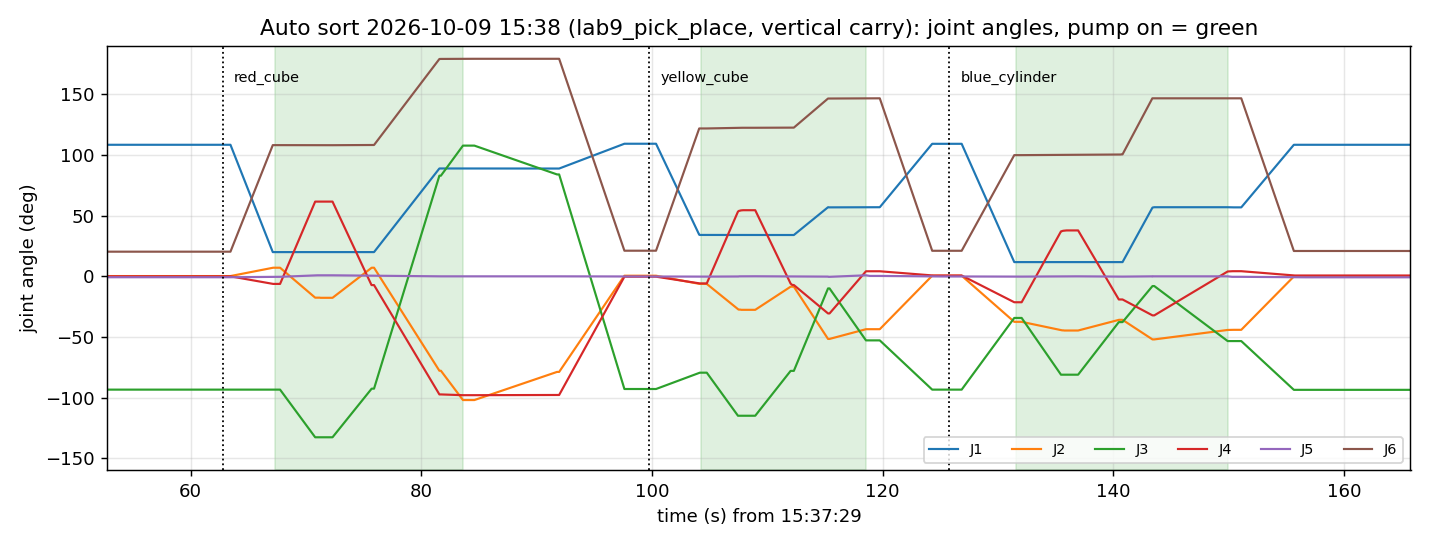
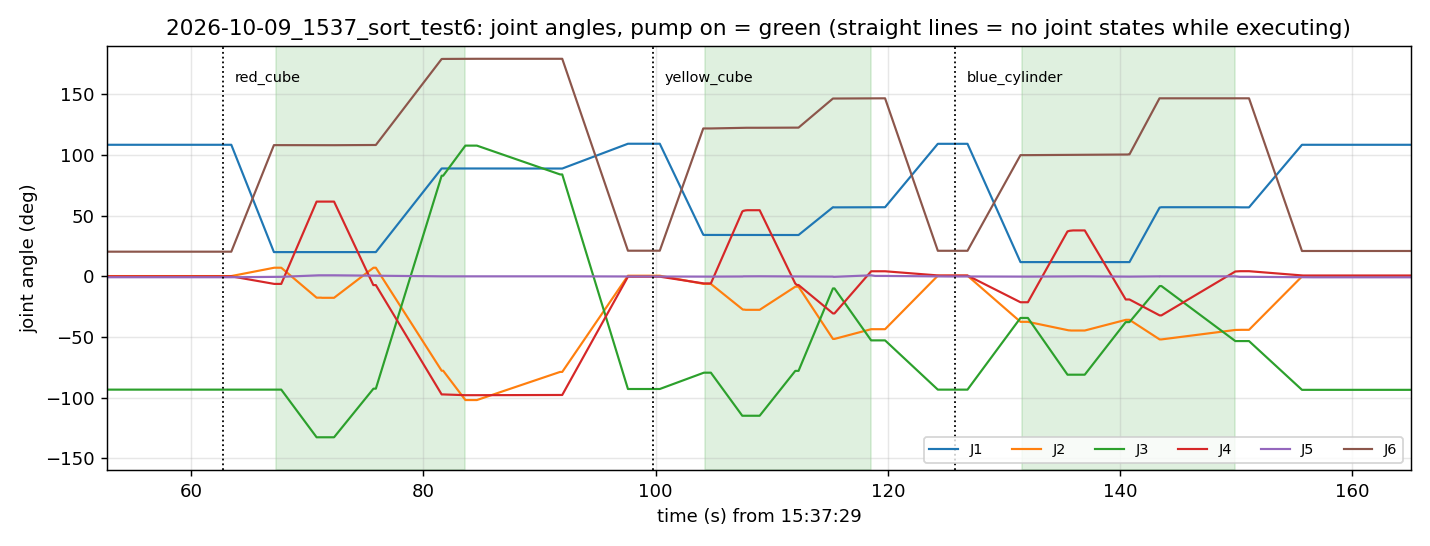
Lab 9 evidence tools: run analysis and camera snapshot recorder
- lab9_analyse_run.py: per pick target vs actual contact (Pi controller log),
  carry pose, outcome (vision), time; analysis.md, runs.csv rows, optional
  joint/pump plot from the bag and start/end image
- lab9_snapshots.py: passive camera snapshots every N s
- lab9/eval/README: both tools, raw data export note; sort_test6 outputs
  regenerated with the repo version

diff --git a/solutions/lab9_real_hardware/lab9_analyse_run.py b/solutions/lab9_real_hardware/lab9_analyse_run.py
@@ -1,0 +1,207 @@
+#!/usr/bin/env python3
+"""Lab 9: analyse one recorded run folder (lab9/eval/runs/<run>/, made by record_run.sh). Never moves the robot.
+
+Per pick, from the logs in the run folder:
+  brain log (logs/)      target, events, warnings, bin, time per pick
+  controller (logs_pi/)  actual flange position: first position after "pump on" = contact
+  vision log (logs/)     object of the same colour still within 25 mm of the target 4 s after the drop = not placed
+Writes <run>/analysis.md and appends one row per pick to lab9/eval/runs.csv (unless --no-csv).
+With --plot also <run>/joints_pump.png (joint angles from the bag, pump-on phases shaded) and <run>/start_end.jpg
+(camera snapshots before the first pick and after the last one).
+
+    source ~/rosenv9.sh     # --plot reads the bag with rosbag2_py
+    python3 solutions/lab9_real_hardware/lab9_analyse_run.py lab9/eval/runs/2026-10-09_1537_sort_test6 \
+        --start 15:37:10 --end 15:40:35 --plot
+Times are local (HH:MM:SS) on the day of the run folder. "placed" means "left the plate", not "landed in the bin":
+check that by eye (start_end.jpg) and note it in runs.csv.
+"""
+import argparse, csv, datetime, glob, math, os, re
+
+import yaml
+
+REPO = os.path.normpath(os.path.join(os.path.dirname(os.path.abspath(__file__)), "..", ".."))
+CONFIG = os.path.join(REPO, "pp_moveit_ws", "src", "lab9_pick_place", "config", "lab9.yaml")
+LINE = re.compile(r"\[(\w+)\] \[(\d{10}\.\d+)\] \[([^\]]+)\]: (.*)")
+COORD = re.compile(r"Current coordinates: \[([-\d.]+), ([-\d.]+), ([-\d.]+)")
+OBJ = re.compile(r"([a-z]+)_(cube|cylinder|unknown)_\d+ \((-?\d+), (-?\d+)\)")
+MOVE = re.compile(r"move to \[([-\d.]+), ([-\d.]+), ([-\d.]+), [-\d.]+, ([-\d.]+), ([-\d.]+)\]")
+hm = lambda t: datetime.datetime.fromtimestamp(t).strftime("%H:%M:%S")
+
+
+def epoch(day, hhmmss):
+    return datetime.datetime.strptime(f"{day} {hhmmss}", "%Y-%m-%d %H:%M:%S").timestamp()
+
+
+def events(run, node, folders, t0, t1):
+    out = set()
+    for f in sum((glob.glob(os.path.join(run, d, "*.log")) for d in folders), []):
+        for line in open(f, errors="replace"):
+            m = LINE.search(line)
+            if m and m.group(3) == node and t0 <= float(m.group(2)) <= t1:
+                out.add((float(m.group(2)), m.group(1), m.group(4).strip()))
+    return sorted(out)
+
+
+def analyse(run, t0, t1, hover_m):
+    brain = events(run, "mycobot_brain_lab9", ["logs"], t0, t1)
+    ctrl = events(run, "controller", ["logs_pi"], t0, t1)
+    vis = events(run, "vision_lab9", ["logs"], t0, t1)
+
+    def objects_at(t):
+        last = None
+        for tt, _, msg in vis:
+            if tt <= t and msg.startswith("objects:"):
+                last = msg
+        return [(c, s, int(x), int(y)) for c, s, x, y in OBJ.findall(last or "")]
+
+    picks, cur = [], None
+    for t, lvl, msg in brain:
+        if msg.startswith("planning scene:"):
+            cur = {"t_start": t, "moves": [], "warn": []}
+        elif cur is None:
+            continue
+        elif msg.startswith("move to ["):
+            m = MOVE.search(msg)
+            if m:
+                cur["moves"].append((t, *map(float, m.groups())))
+        elif "pump on" in msg:
+            cur["t_pump_on"] = t
+        elif msg.endswith(" picked"):
+            cur["id"], cur["t_picked"] = msg.split()[0], t
+        elif "dropped into bin" in msg:
+            cur["bin"], cur["t_drop"] = msg.split()[-1], t
+            picks.append(cur); cur = None
+        elif "sequence stopped" in msg:
+            cur["stopped"], cur["t_drop"] = msg, t
+            picks.append(cur); cur = None
+        elif lvl in ("WARN", "ERROR"):
+            cur["warn"].append(msg)
+
+    rows = []
+    for p in picks:
+        tp, td = p.get("t_pump_on", p["t_start"]), p["t_drop"]
+        coords = [tuple(map(float, COORD.search(m).groups())) for t, _, m in ctrl if tp <= t <= td + 1.5 and COORD.search(m)]
+        before = [mv for mv in p["moves"] if mv[0] <= tp]
+        hover = before[-1] if before else None
+        carry = [mv for mv in p["moves"] if mv[0] > p.get("t_picked", td)]
+        tx, ty = (hover[1], hover[2]) if hover else (float("nan"),) * 2
+        oid = p.get("id", "?_?")
+        color, shape = (oid.split("_") + ["?"])[:2]
+        after = objects_at(td + 4.0)
+        still = [o for o in after if o[0] == color and math.hypot(o[2] - tx * 1000, o[3] - ty * 1000) < 25]
+        rows.append(dict(
+            id=oid, color=color, shape=shape, t_start=hm(p["t_start"]), dur=td - p["t_start"],
+            tx=tx * 1000, ty=ty * 1000,
+            contact=f"({coords[0][0]:.1f}, {coords[0][1]:.1f}, {coords[0][2]:.1f})" if coords else "-",
+            contact_z=coords[0][2] if coords else float("nan"),
+            dxy=math.hypot(coords[0][0] - tx * 1000, coords[0][1] - ty * 1000) if coords else float("nan"),
+            planned_z=(hover[3] - hover_m + 0.040) * 1000 if hover else float("nan"),   # pump_head + 40 mm = flange
+            carry=(f"z {carry[-1][3]:.3f}, pitch {carry[-1][4]:.2f}"
+                   + (" (TILTED)" if abs(carry[-1][4] - math.pi) > 0.05 else " (vertical)")
+                   + (f", after {len(carry) - 1} failed plans" if len(carry) > 1 else "")) if carry else "-",
+            bin=p.get("bin", "-"),
+            outcome="stopped" if "stopped" in p else ("placed" if not still else "still_on_plate"),
+            warn=("; ".join(sorted(set(p["warn"]))) or p.get("stopped", ""))[:140]))
+    return rows
+
+
+def report(run, rows, t0, t1):
+    out = [f"# Analysis of {os.path.basename(run)} ({hm(t0)}–{hm(t1)})", "",
+           "Sources: brain log (targets, events), Pi controller log (actual flange position), vision log (object still on",
+           "the plate 4 s after the drop = not placed). Contact = first controller position after `pump on`.", "",
+           "| # | start | object | target (mm) | contact flange (mm) | planned contact z | xy diff | carry above bin | bin | outcome | time (s) | notes |",
+           "|---|---|---|---|---|---|---|---|---|---|---|---|"]
+    for i, r in enumerate(rows, 1):
+        out.append(f"| {i} | {r['t_start']} | `{r['id']}` | ({r['tx']:.0f}, {r['ty']:.0f}) | {r['contact']} | "
+                   f"{r['planned_z']:.0f} | {r['dxy']:.1f} | {r['carry']} | {r['bin']} | **{r['outcome']}** | "
+                   f"{r['dur']:.1f} | {r['warn']} |")
+    ok = [r for r in rows if r["outcome"] == "placed"]
+    if rows:
+        out += ["", f"**Summary:** {len(ok)} of {len(rows)} picks placed; mean time per pick "
+                f"{sum(r['dur'] for r in rows) / len(rows):.1f} s; contact z (actual) "
+                f"{min(r['contact_z'] for r in rows):.1f}–{max(r['contact_z'] for r in rows):.1f} mm vs planned "
+                f"{rows[0]['planned_z']:.0f} mm; xy difference target → actual ≤ {max(r['dxy'] for r in rows):.1f} mm."]
+    text = "\n".join(out) + "\n"
+    open(os.path.join(run, "analysis.md"), "w").write(text)
+    print(text)
+
+
+def append_csv(run, rows):
+    path = os.path.join(REPO, "lab9", "eval", "runs.csv")
+    with open(path, "a", newline="") as f:
+        w = csv.writer(f)
+        for r in rows:
+            w.writerow([r["t_start"], "extended", os.path.basename(run), "2 auto sort", r["id"], f"{r['color']} {r['shape']}",
+                        "", "", f"{r['tx']:.0f}", f"{r['ty']:.0f}", r["bin"], r["outcome"], "", f"{r['dur']:.1f}",
+                        "runs/" + os.path.basename(run), f"contact flange {r['contact']}; carry {r['carry']}; {r['warn']}"])
+    print(f"appended {len(rows)} rows to {path}")
+
+
+def plot(run, rows, day):
+    import cv2, numpy as np, rosbag2_py
+    import matplotlib; matplotlib.use("Agg"); import matplotlib.pyplot as plt
+    from rclpy.serialization import deserialize_message
+    from sensor_msgs.msg import JointState
+    from std_msgs.msg import String
+    rd = rosbag2_py.SequentialReader()
+    rd.open(rosbag2_py.StorageOptions(uri=os.path.join(run, "bag"), storage_id="mcap"), rosbag2_py.ConverterOptions("cdr", "cdr"))
+    t_js, q, pump = [], [], []
+    while rd.has_next():
+        topic, data, t = rd.read_next()
+        if topic == "/joint_states":
+            t_js.append(t / 1e9); q.append(np.degrees(deserialize_message(data, JointState).position))
+        elif topic == "/pump_controller":
+            pump.append((t / 1e9, deserialize_message(data, String).data))
+    t_js, q = np.array(t_js), np.array(q); T0 = t_js[0]
+    fig, ax = plt.subplots(figsize=(11, 4.2))
+    for j in range(6):
+        ax.plot(t_js - T0, q[:, j], lw=1.2, label=f"J{j + 1}")
+    on = None
+    for t, s in pump:
+        if s == "on":
+            on = t
+        elif s == "off" and on is not None:
+            ax.axvspan(on - T0, t - T0, color="tab:green", alpha=0.15); on = None
+    starts = [epoch(day, r["t_start"]) - T0 for r in rows]
+    for x0, r in zip(starts, rows):
+        ax.axvline(x0, color="k", ls=":", lw=1); ax.text(x0 + 1, 160, r["id"].replace("_1", ""), fontsize=8)
+    if rows:
+        ax.set_xlim(starts[0] - 10, min(t_js[-1] - T0, starts[-1] + rows[-1]["dur"] + 15))
+    ax.set_ylim(-160, 190); ax.grid(alpha=0.3); ax.legend(ncol=6, fontsize=8, loc="lower right")
+    ax.set_xlabel(f"time (s) from {hm(T0)}"); ax.set_ylabel("joint angle (deg)")
+    ax.set_title(f"{os.path.basename(run)}: joint angles, pump on = green (straight lines = no joint states while executing)")
+    fig.tight_layout(); fig.savefig(os.path.join(run, "joints_pump.png"), dpi=130)
+    snaps = sorted(glob.glob(os.path.join(run, "snapshots", "*.jpg")))
+    if snaps and rows:
+        st = lambda f: epoch(day, f"{os.path.basename(f)[0:2]}:{os.path.basename(f)[2:4]}:{os.path.basename(f)[4:6]}")
+        near = lambda t: min(snaps, key=lambda f: abs(st(f) - t))
+        a = cv2.imread(near(epoch(day, rows[0]["t_start"]) - 2))
+        b = cv2.imread(near(epoch(day, rows[-1]["t_start"]) + rows[-1]["dur"] + 5))
+        for img, txt in ((a, f"start {rows[0]['t_start']}"), (b, "after the last pick")):
+            cv2.putText(img, txt, (10, 30), cv2.FONT_HERSHEY_SIMPLEX, 0.9, (0, 0, 255), 2)
+        cv2.imwrite(os.path.join(run, "start_end.jpg"), np.hstack([a, b]), [cv2.IMWRITE_JPEG_QUALITY, 88])
+    print(f"wrote {os.path.join(run, 'joints_pump.png')} and start_end.jpg")
+
+
+def main():
+    ap = argparse.ArgumentParser(description=__doc__, formatter_class=argparse.RawDescriptionHelpFormatter)
+    ap.add_argument("run", help="run folder, e.g. lab9/eval/runs/2026-10-09_1537_sort_test6")
+    ap.add_argument("--start", required=True, help="HH:MM:SS, local time")
+    ap.add_argument("--end", required=True, help="HH:MM:SS, local time")
+    ap.add_argument("--hover-m", type=float, help="robot.hover_m used in the run (default: from lab9.yaml)")
+    ap.add_argument("--no-csv", action="store_true", help="do not append to lab9/eval/runs.csv")
+    ap.add_argument("--plot", action="store_true", help="also joints_pump.png + start_end.jpg (needs the bag)")
+    a = ap.parse_args()
+    day = os.path.basename(os.path.normpath(a.run))[:10]
+    hover_m = a.hover_m if a.hover_m is not None else yaml.safe_load(open(CONFIG))["robot"]["hover_m"]
+    t0, t1 = epoch(day, a.start), epoch(day, a.end)
+    rows = analyse(a.run, t0, t1, hover_m)
+    report(a.run, rows, t0, t1)
+    if not a.no_csv:
+        append_csv(a.run, rows)
+    if a.plot:
+        plot(a.run, rows, day)
+
+
+if __name__ == "__main__":
+    main()

diff --git a/solutions/lab9_real_hardware/lab9_snapshots.py b/solutions/lab9_real_hardware/lab9_snapshots.py
@@ -1,0 +1,25 @@
+#!/usr/bin/env python3
+"""Lab 9: passive camera snapshots for the report / slides. Subscribes to camera/image and saves one JPEG every <period>
+seconds into <out_dir> (file name HHMMSS.jpg). Publishes nothing, never moves the robot.
+
+    source ~/rosenv9.sh
+    python3 solutions/lab9_real_hardware/lab9_snapshots.py lab9/eval/runs/<run>/snapshots 2.0     # Ctrl+C to stop
+Use it next to "record_run.sh bag <name>" (same run folder); lab9_analyse_run.py --plot uses the snapshots.
+"""
+import os, sys, time, cv2, rclpy
+from cv_bridge import CvBridge
+from sensor_msgs.msg import Image
+out, period = sys.argv[1], float(sys.argv[2]) if len(sys.argv) > 2 else 2.0
+os.makedirs(out, exist_ok=True)
+rclpy.init(); n = rclpy.create_node("lab9_snapshot_recorder"); b = CvBridge(); last = [0.0]
+def cb(msg):
+    now = time.time()
+    if now - last[0] >= period:
+        last[0] = now
+        cv2.imwrite(os.path.join(out, time.strftime("%H%M%S", time.localtime(now)) + ".jpg"), b.imgmsg_to_cv2(msg, "bgr8"),
+                    [cv2.IMWRITE_JPEG_QUALITY, 85])
+n.create_subscription(Image, "camera/image", cb, 1)
+try:
+    rclpy.spin(n)
+except KeyboardInterrupt:
+    pass

diff --git a/lab9/eval/README.md b/lab9/eval/README.md
@@ -10,6 +10,8 @@ Everything recorded in the lab for `pp_moveit_ws/src/lab9_pick_place/LAB9_REPORT
 | `ground_truth.csv` | taped spots on the plate, measured with a ruler from the robot base centre (mm) | by hand, once per plate/marker setup | §3.3, §4.3 (true positions) |
 | `runs.csv` | **one line per pick**: system (original / extended), scene, mode, selection, true and vision position, bin, outcome, miss, time | by hand after each pick (time from `timeline.txt`) | §2.2, §4.3 |
 | `runs/<date_time>_<name>/` | per run: `logs/` (Lab PC nodes), `logs_pi/` (controller), `frames/`, `bag/`, `timeline.txt` (events + time per pick), `notes.md` | `solutions/lab9_real_hardware/record_run.sh` | Appendix A |
+| `runs/<run>/analysis.md`, `joints_pump.png`, `start_end.jpg` | per pick: target vs actual contact, carry pose, outcome, time; joint/pump plot; before/after image | `solutions/lab9_real_hardware/lab9_analyse_run.py <run> --start HH:MM:SS --end HH:MM:SS [--plot] [--no-csv]` (also appends `runs.csv`) | §4.3, slides |
+| `runs/<run>/snapshots/` | camera frame every 2 s (raw data, gitignored, in the export zip) | `solutions/lab9_real_hardware/lab9_snapshots.py <run>/snapshots 2.0` | slides (time-lapse) |
 | frames (`lab9_annotated_*`, `lab9_raw_*`) | annotated / raw images, key `s` in the vision window | `vision_lab9` | §3.3, Appendix A |
 
 The frames stay in `pp_moveit_ws/src/lab9_pick_place/frames/` (next to the report); `record_run.sh collect` copies the
@@ -21,7 +23,10 @@ ones of a run into its folder.
 2. Run as in `LAB9_RUN_STEPS.txt` (C = Part 0, D = final system). Press `s` in the vision window for each scene.
 3. After the run: Ctrl+C the bag, then `solutions/lab9_real_hardware/record_run.sh collect <name>` (same name).
    It prints the time per pick.
-4. Add one line per pick to `runs.csv`; fill `notes.md` in the run folder; take a photo/video of the arm if useful.
+4. `lab9_analyse_run.py <run> --start … --end … --plot` writes `analysis.md` + plots and one `runs.csv` row per pick
+   (fill the ruler position and miss by hand); fill `notes.md`; take a photo/video of the arm if useful.
+5. Raw data (`bag/`, `snapshots/`, `logs*/`, run `frames/`, `lab9_raw_*.png`) is gitignored: copy it into an export zip
+   (as `~/lab9_export_2026-10-09.zip`) to keep it.
 
 `runs.csv` columns: `system` = `original` or `extended`; `outcome` = `placed` / `picked_not_placed` / `missed` /
 `failed_plan` / `not_detected`; `miss_mm` = distance from the nozzle to the object centre at the pick (ruler), empty if

diff --git a/lab9/eval/runs/2026-10-09_1537_sort_test6/analysis.md b/lab9/eval/runs/2026-10-09_1537_sort_test6/analysis.md
@@ -1,7 +1,7 @@
-# Analysis of 2026-10-09_1537_sort_test6 (window 15:37:10–15:40:06)
+# Analysis of 2026-10-09_1537_sort_test6 (15:37:10–15:40:35)
 
-Sources: brain log (targets, events), Pi controller log (actual flange position), vision log (object still on the plate
-4 s after the drop = not picked). Contact = first controller position after `pump on` (end of the straight descent).
+Sources: brain log (targets, events), Pi controller log (actual flange position), vision log (object still on
+the plate 4 s after the drop = not placed). Contact = first controller position after `pump on`.
 
 | # | start | object | target (mm) | contact flange (mm) | planned contact z | xy diff | carry above bin | bin | outcome | time (s) | notes |
 |---|---|---|---|---|---|---|---|---|---|---|---|
@@ -9,4 +9,4 @@ Sources: brain log (targets, events), Pi controller log (actual flange position)
 | 2 | 15:39:09 | `yellow_cube_1` | (188, 46) | (188.9, 51.2, 117.6) | 106 | 5.3 | z 0.166, pitch 3.14 (vertical) | yellow | **placed** | 19.4 |  |
 | 3 | 15:39:35 | `blue_cylinder_1` | (236, -20) | (239.4, -15.2, 118.3) | 106 | 5.9 | z 0.166, pitch 3.14 (vertical) | blue | **placed** | 24.2 |  |
 
-**Summary:** 3 of 3 picks placed; mean time per pick 21.6 s (placed only: 21.6 s); contact z (actual) 117.0–118.3 mm vs planned 106 mm; xy difference target→actual ≤ 6.1 mm.
+**Summary:** 3 of 3 picks placed; mean time per pick 21.6 s; contact z (actual) 117.0–118.3 mm vs planned 106 mm; xy difference target → actual ≤ 6.1 mm.
